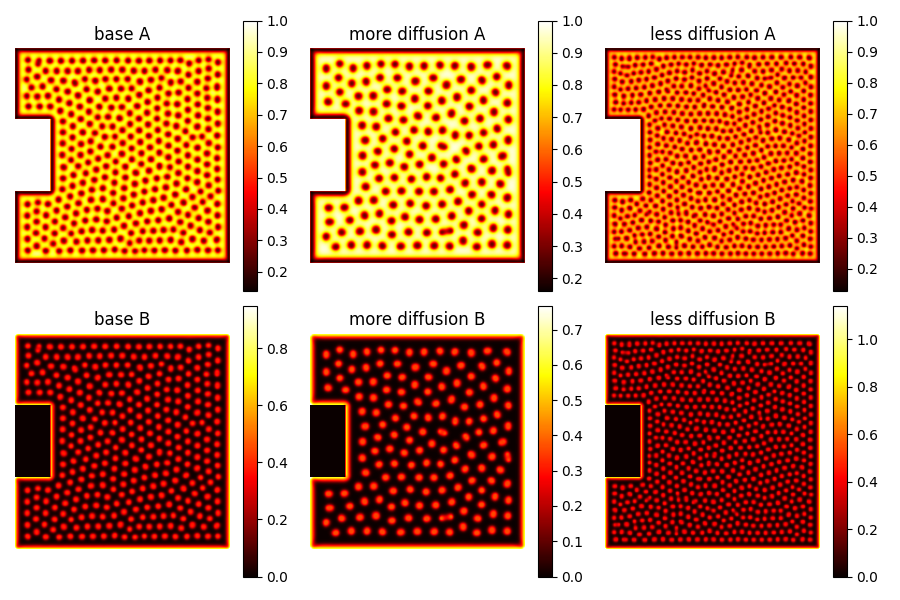
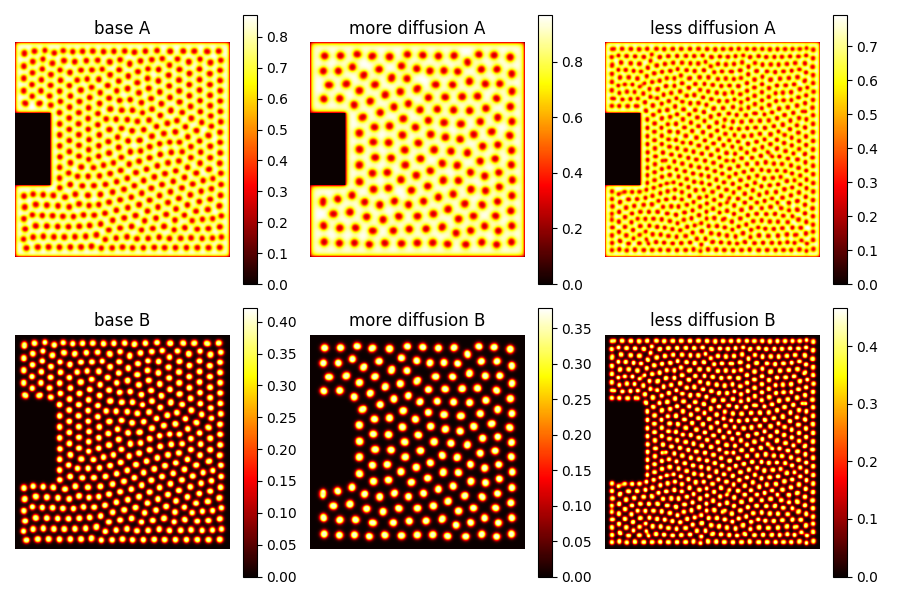
okay, thats a way better bet  ^^

diff --git a/learn/reaction_diffusion/rd4mapf-rms.py b/learn/reaction_diffusion/rd4mapf-rms.py
@@ -89,7 +89,7 @@ N = 200
 N_simulation_steps = 10000
 
 # "background" values for A and B
-A_bg = 1.0
+A_bg = 0.0
 B_bg = 0.0
 
 experiments = {
